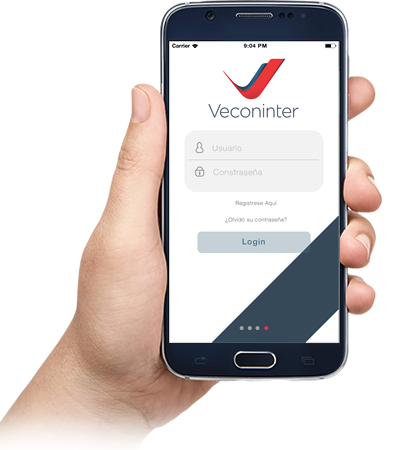
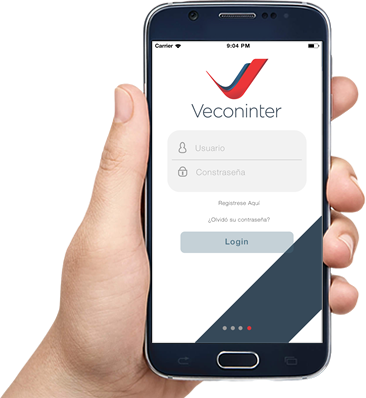
Added animations to home

diff --git a/index.html b/index.html
@@ -157,8 +157,8 @@
         <div class="row main-slider">
             <!--<img class="img-responsive" src="./img/vecogo.png" />-->
             <div class="container main-slider-text">
-                <h1>More than 25 years of experience</h1>
-                <h2>within the maritime industry</h2>
+                <h1 class="animated" data-animation-delay="400" data-animation="slideInLeft">More than 25 years of experience</h1>
+                <h2 class="animated" data-animation-delay="900" data-animation="slideInLeft">within the maritime industry</h2>
             </div>
         </div>
         
@@ -177,7 +177,7 @@
     
     					<div class="div-icons_con style2 icon_left_right upper_title clearfix">
     						<div class="col-md-6">
-    							<div class="div-serv">
+    							<div class="div-serv animated" data-animation-delay="900" data-animation="fadeInLeft">
     								<a href="#"><span class="icon circle"><i class="ico-alarm"></i></span></a>
     								<div class="div-serv_con">
     									<h3>Demurrage Detention & Deposit Management</h3>
@@ -186,7 +186,7 @@
     							</div>
     						</div>
     						<div class="col-md-6">
-    							<div class="div-serv">
+    							<div class="div-serv animated" data-animation-delay="900" data-animation="fadeInRight">
     								<a href="#"><span class="icon circle"><i class="ico-shipping"></i></span></a>
     								<div class="div-serv_con">
     									<h3>Equipment Control</h3>
@@ -195,7 +195,7 @@
     							</div>
     						</div>
     						<div class="col-md-6">
-    							<div class="div-serv">
+    							<div class="div-serv animated" data-animation-delay="1200" data-animation="fadeInLeft">
     								<a href="#"><span class="icon circle"><i class="ico-wrench"></i></span></a>
     								<div class="div-serv_con">
     									<h3>Damage Recovery</h3>
@@ -204,7 +204,7 @@
     							</div>
     						</div>
     						<div class="col-md-6">
-    							<div class="div-serv">
+    							<div class="div-serv animated" data-animation-delay="1200" data-animation="fadeInRight">
     								<a href="#"><span class="icon circle"><i class="ico-briefcase3"></i></span></a>
     								<div class="div-serv_con">
     									<h3>Insurance Policies</h3>
@@ -213,7 +213,7 @@
     							</div>
     						</div>
     						<div class="col-md-6">
-    							<div class="div-serv">
+    							<div class="div-serv animated" data-animation-delay="1500" data-animation="fadeInLeft">
     								<a href="#"><span class="icon circle"><i class="ico-search"></i></span></a>
     								<div class="div-serv_con">
     									<h3>Inspections</h3>
@@ -222,7 +222,7 @@
     							</div>
     						</div>
     						<div class="col-md-6">
-    							<div class="div-serv">
+    							<div class="div-serv animated" data-animation-delay="1500" data-animation="fadeInRight">
     								<a href="#"><span class="icon circle"><i class="ico-anchor"></i></span></a>
     								<div class="div-serv_con">
     									<h3>Ocean Freight & Administrative</h3>
@@ -231,7 +231,7 @@
     							</div>
     						</div>
     						<div class="col-md-6">
-    							<div class="div-serv">
+    							<div class="div-serv animated" data-animation-delay="1800" data-animation="fadeInLeft">
     								<a href="#"><span class="icon circle"><i class="ico-cog"></i></span></a>
     								<div class="div-serv_con">
     									<h3>Specialized Workshops</h3>
@@ -240,7 +240,7 @@
     							</div>
     						</div>
     						<div class="col-md-6">
-    							<div class="div-serv">
+    							<div class="div-serv animated" data-animation-delay="1800" data-animation="fadeInRight">
     								<a href="#"><span class="icon circle"><i class="ico-university"></i></span></a>
     								<div class="div-serv_con">
     									<h3>Consulting Practice</h3>
@@ -388,26 +388,28 @@
 			</div>
 		</section>
     	<!-- End Our Blog Grids -->
+
+		<!-- App Section -->
 		<section class="content_section bg_vecogo">
 			<span class="section_icon"><i class="ico-mobile2"></i></span>
 			<div class="content">
 				<div class="row">
 					<div class="col-md-6">
-						<img class="img-responsive img-phone" src="./img/vecogo-phone2.png" alt="VegoGO!" />
+						<img class="img-responsive img-phone animated" data-animation-delay="400" data-animation="fadeInUp" src="./img/vecogo-phone.png" alt="VegoGO!" />
 					</div>
 					<div class="col-md-6">
 						<div class="row">
-							<div class="col-md-12 text-right">
+							<div class="col-md-12 text-right animated" data-animation-delay="900" data-animation="fadeIn">
 								<img class="img-responsive img-vecogo" src="./img/logo-vecogo.png" alt="VegoGO!" />
 								<h4>Information at your fingertips!</h4>
 							</div>
 						</div>
 						<div class="row">
 							<div class="col-md-6">
-								<a href='https://play.google.com/store/apps/details?id=codefuel.veconinter.main&pcampaignid=MKT-Other-global-all-co-prtnr-py-PartBadge-Mar2515-1' target="_blank"><img class="img-responsive" alt='Get it on Google Play' src='./img/googleplay.png'/></a>
+								<a href='https://play.google.com/store/apps/details?id=codefuel.veconinter.main&pcampaignid=MKT-Other-global-all-co-prtnr-py-PartBadge-Mar2515-1' target="_blank"><img class="img-responsive animated" alt='Get it on Google Play' data-animation-delay="1200" data-animation="zoomIn" src='./img/googleplay.png'/></a>
 							</div>
 							<div class="col-md-6">
-								<a href='https://itunes.apple.com/ve/app/veco-go/id1033764371' target="_blank"><img class="img-responsive" alt='Get it on App Store' src='./img/appstore.png'/></a>
+								<a href='https://itunes.apple.com/ve/app/veco-go/id1033764371' target="_blank"><img class="img-responsive animated" alt='Get it on App Store' data-animation-delay="1200" data-animation="zoomIn" src='./img/appstore.png'/></a>
 							</div>
 						</div>
 					</div>
@@ -416,7 +418,9 @@
 			</div>
 		</section>
 
-			<!-- footer -->
+		<!-- End App Section -->
+
+		<!-- footer -->
 		<footer id="footer">
 			<div class="container row_spacer_footer clearfix">
 				<div class="rows_container clearfix">
